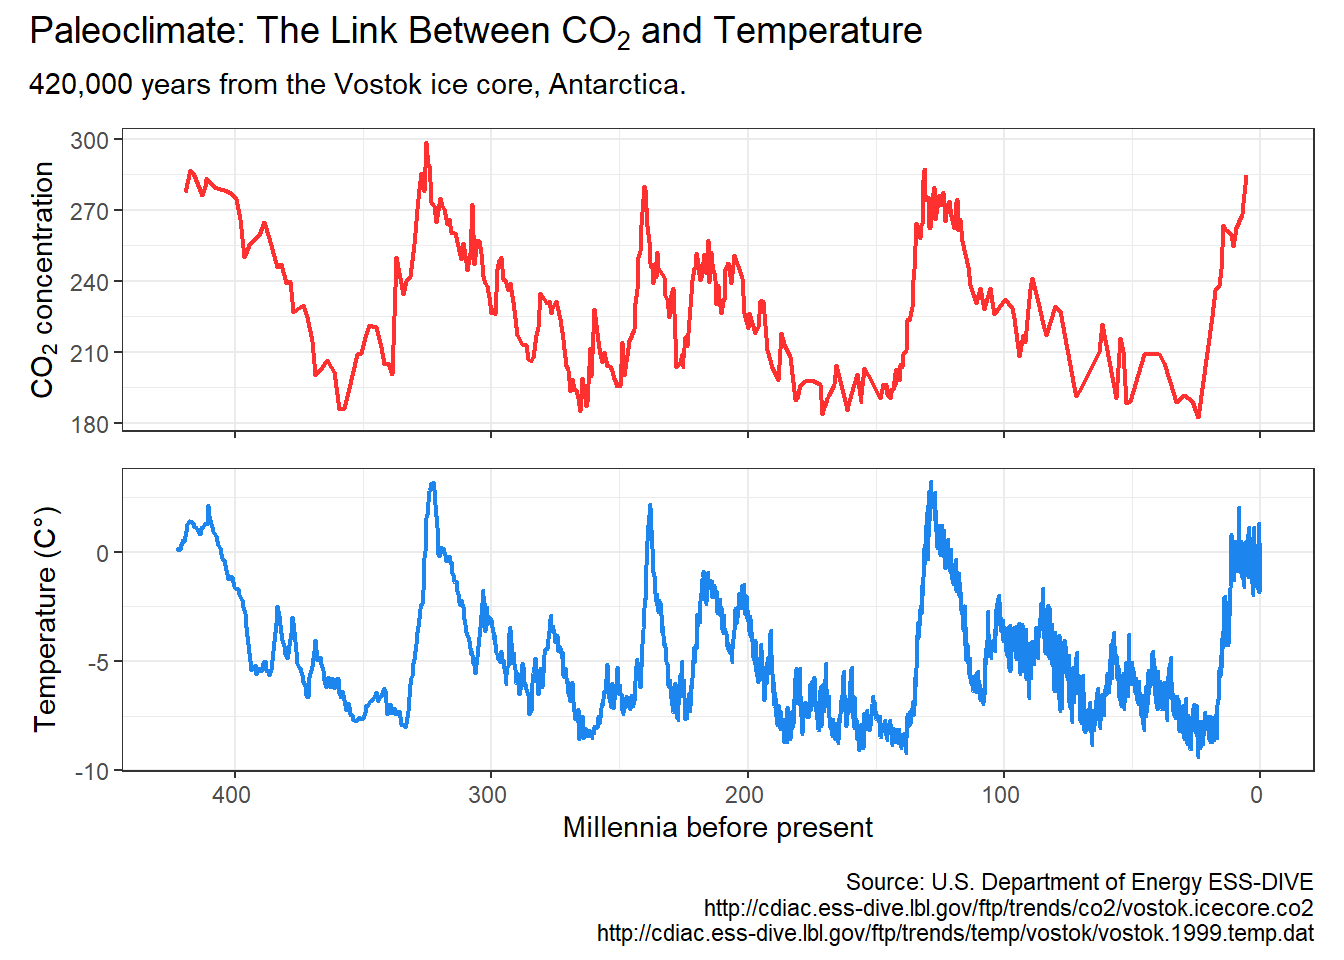
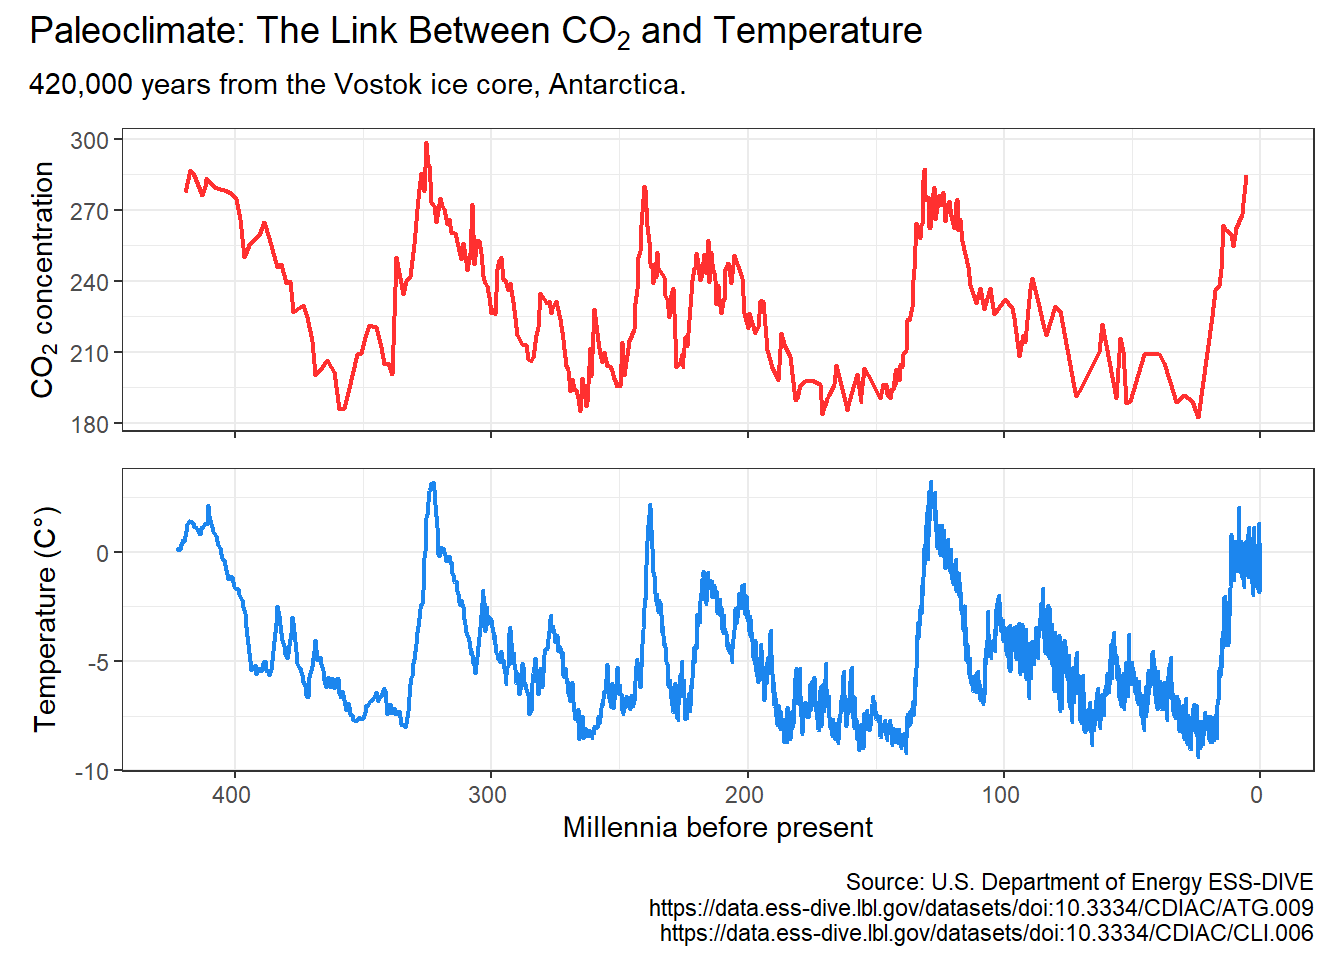
Store ice region in tibble attributes Update Vostok url

Changed region(s): [[0.4375, 0.9375, 1.0, 1.0]]

diff --git a/README.md b/README.md
@@ -253,7 +253,7 @@ climate_grid()
   Center](https://nsidc.org/home). Data Archive:
   <https://nsidc.org/data/explore-data>
 - Vostok carbon dioxide and temperature data:
-  <https://cdiac.ess-dive.lbl.gov/trends/co2/vostok.html>
+  <https://data.ess-dive.lbl.gov/datasets/doi:10.3334/CDIAC/ATG.009>
 - Common Era reconstructed temperature data: [PAGES2k Consortium and
   NOAA](https://www.ncei.noaa.gov/access/paleo-search/study/26872)).
 - Hurricanes: National Oceanic and Atmospheric Administration HURDAT
@@ -284,6 +284,6 @@ climate_grid()
 - Here are some online resources I have found very helpful to learn mo
   re about climate science:
 - MIT edX Global Warming Science.
-  <https://www.edx.org/course/global-warming-science>
+  <https://www.edx.org/learn/physics/massachusetts-institute-of-technology-global-warming-science>
 - SDG Academy: Climate Change: The Science and Global Impact.
   <https://sdgacademy.org/course/climate-change-the-science-and-global-impact/>
